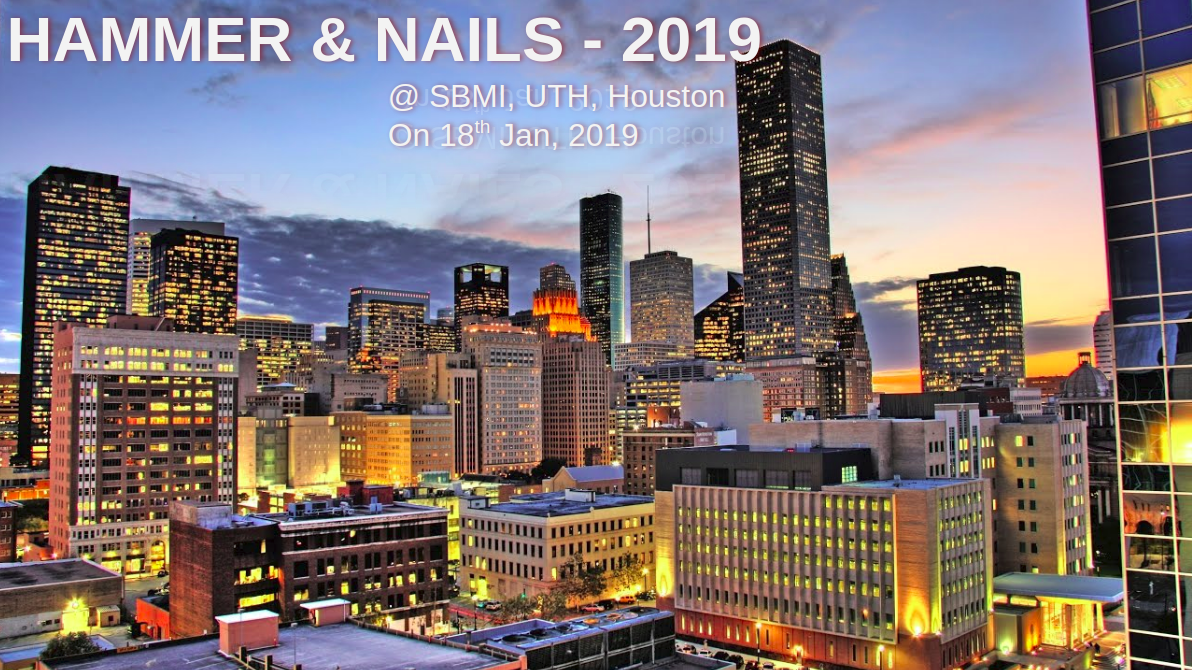
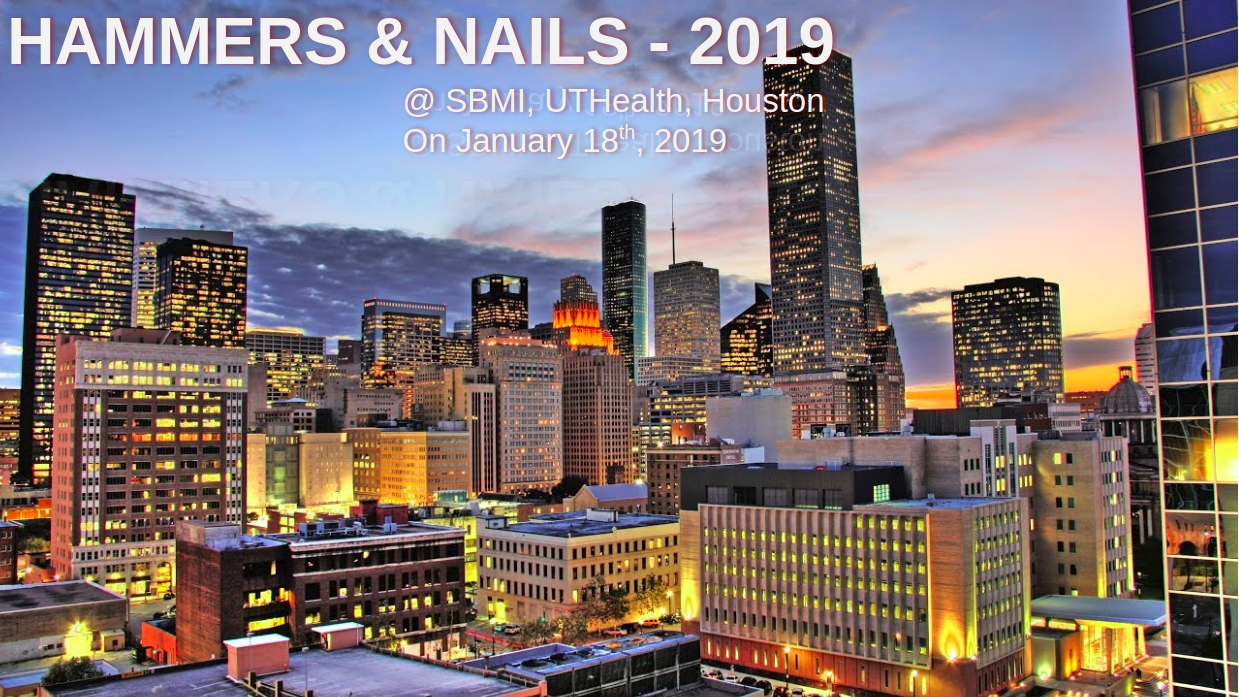
Changes suggested

diff --git a/workshop_2019.md b/workshop_2019.md
@@ -32,11 +32,11 @@ aside: false
 * &nbsp; <small>9:30 a.m.<span style="color:red">&nbsp; &nbsp; Breakfast/Refreshment</span></small>
 * <small>10:00 a.m.<span style="color:maroon">&nbsp; &nbsp; Opening Remarks</span></small> 
 
-  <small>&nbsp; &nbsp; &nbsp; &nbsp; &nbsp; &nbsp; &nbsp; &nbsp; &nbsp; &nbsp; &nbsp; &nbsp; &nbsp; &nbsp; &nbsp; &nbsp; &nbsp; &nbsp; &nbsp; &nbsp; - [**Dr.Jiajie Zhang**][JZ]*, Dean, SBMI, UTHealth*</small>
+  <small>&nbsp; &nbsp; &nbsp; &nbsp; &nbsp; &nbsp; &nbsp; &nbsp; &nbsp; &nbsp; &nbsp; &nbsp; &nbsp; &nbsp; &nbsp; &nbsp; &nbsp; &nbsp; &nbsp; &nbsp; - [**Dr. Jiajie Zhang**][JZ]*, Dean, SBMI, UTHealth*</small>
 * <small>10:15 a.m.<span style="color:maroon">&nbsp; &nbsp; CHSP Challeneges</span></small>  
 
-  <small>&nbsp; &nbsp; &nbsp; &nbsp; &nbsp; &nbsp; &nbsp; &nbsp; &nbsp; &nbsp; &nbsp; &nbsp; &nbsp; &nbsp; &nbsp; &nbsp; &nbsp; &nbsp; &nbsp; &nbsp; - [**Dr.Xiaoqian JIang**][XJ]*, SBMI, UTHealth*</small>
-* <small>10:25 a.m.<span style="color:maroon">&nbsp; &nbsp; Biomedical Challenege: Driver Disease Mutstaions and Drug Combinations</span></small> 
+  <small>&nbsp; &nbsp; &nbsp; &nbsp; &nbsp; &nbsp; &nbsp; &nbsp; &nbsp; &nbsp; &nbsp; &nbsp; &nbsp; &nbsp; &nbsp; &nbsp; &nbsp; &nbsp; &nbsp; &nbsp; - [**Dr. Xiaoqian JIang**][XJ]*, SBMI, UTHealth*</small>
+* <small>10:25 a.m.<span style="color:maroon">&nbsp; &nbsp; Biomedical Challenges: Driver Disease Mutaions and Drug Combinations</span></small> 
 
   <small>&nbsp; &nbsp; &nbsp; &nbsp; &nbsp; &nbsp; &nbsp; &nbsp; &nbsp; &nbsp; &nbsp; &nbsp; &nbsp; &nbsp; &nbsp; &nbsp; &nbsp; &nbsp; &nbsp; &nbsp; - [**Drs. Song(Stephen) Yi**][SY]*, UT Austin*; [**Dr.Nidhi Sahni**][NS]*, UT MDACC*</small>
 * <small>10:35 a.m.<span style="color:maroon">&nbsp; &nbsp; Data sharing or Model Sharing?</span></small> 
@@ -44,15 +44,15 @@ aside: false
   <small>&nbsp; &nbsp; &nbsp; &nbsp; &nbsp; &nbsp; &nbsp; &nbsp; &nbsp; &nbsp; &nbsp; &nbsp; &nbsp; &nbsp; &nbsp; &nbsp; &nbsp; &nbsp; &nbsp; &nbsp; - [**Dr. Degui Zhi**][DZ]*, SBMI, UTHealth*</small>
 * <small>10:45 a.m.<span style="color:maroon">&nbsp; &nbsp; A Framework for Similarity-based Predictions</span></small> 
 
-  <small>&nbsp; &nbsp; &nbsp; &nbsp; &nbsp; &nbsp; &nbsp; &nbsp; &nbsp; &nbsp; &nbsp; &nbsp; &nbsp; &nbsp; &nbsp; &nbsp; &nbsp; &nbsp; &nbsp; &nbsp; - [**Dr.Assaf Gottlieb**][AG]*, SBMI, UTHealth*</small>
+  <small>&nbsp; &nbsp; &nbsp; &nbsp; &nbsp; &nbsp; &nbsp; &nbsp; &nbsp; &nbsp; &nbsp; &nbsp; &nbsp; &nbsp; &nbsp; &nbsp; &nbsp; &nbsp; &nbsp; &nbsp; - [**Dr. Assaf Gottlieb**][AG]*, SBMI, UTHealth*</small>
 * <small>10:55 a.m.<span style="color:maroon">&nbsp; &nbsp; Research Overview: Network-Based & Baseyian Approaches for Biomedical Data Analysis</span></small> 
 
-  <small>&nbsp; &nbsp; &nbsp; &nbsp; &nbsp; &nbsp; &nbsp; &nbsp; &nbsp; &nbsp; &nbsp; &nbsp; &nbsp; &nbsp; &nbsp; &nbsp; &nbsp; &nbsp; &nbsp; &nbsp; - [**Dr. Byung-jun Yoon**][BJ]*, Texas A&M University*</small>
+  <small>&nbsp; &nbsp; &nbsp; &nbsp; &nbsp; &nbsp; &nbsp; &nbsp; &nbsp; &nbsp; &nbsp; &nbsp; &nbsp; &nbsp; &nbsp; &nbsp; &nbsp; &nbsp; &nbsp; &nbsp; - [**Dr. Byung-Jun Yoon**][BJ]*, Texas A&M University*</small>
 * <small>11:05 a.m.<span style="color:red">&nbsp; &nbsp; Coffee Break</span></small>
 * <small>11:20 a.m.<span style="color:maroon">&nbsp; &nbsp; Depression Monitoring via Dynamic Vocal Biomarkers</span></small> 
 
   <small>&nbsp; &nbsp; &nbsp; &nbsp; &nbsp; &nbsp; &nbsp; &nbsp; &nbsp; &nbsp; &nbsp; &nbsp; &nbsp; &nbsp; &nbsp; &nbsp; &nbsp; &nbsp; &nbsp; &nbsp; - [**Dr. Ying Lin**][YL]*, University of Houston*</small>
-* <small>11:30 a.m.<span style="color:maroon">&nbsp; &nbsp; Deep Leanring Reasearch at Information Innvoation Lab</span></small> 
+* <small>11:30 a.m.<span style="color:maroon">&nbsp; &nbsp; Deep Learning Research at Information Innvoation Lab</span></small> 
 
   <small>&nbsp; &nbsp; &nbsp; &nbsp; &nbsp; &nbsp; &nbsp; &nbsp; &nbsp; &nbsp; &nbsp; &nbsp; &nbsp; &nbsp; &nbsp; &nbsp; &nbsp; &nbsp; &nbsp; &nbsp; - [**Dr. Anxiao (Andrew) Jiang**][AJ]*, Texas A&M University*</small>
 * <small>11:40 a.m.<span style="color:maroon">&nbsp; &nbsp; Data Analysis at Texas A&M (DATA Lab)</span></small> 
@@ -68,7 +68,7 @@ aside: false
 * <small>12:20 p.m.<span style="color:red">&nbsp; &nbsp; Lunch Break</span></small>
 * &nbsp; <small>1:30 p.m.<span style="color:maroon">&nbsp; &nbsp; Practical Applications of Homomorphic Encryption</span></small> 
 
-  <small>&nbsp; &nbsp; &nbsp; &nbsp; &nbsp; &nbsp; &nbsp; &nbsp; &nbsp; &nbsp; &nbsp; &nbsp; &nbsp; &nbsp; &nbsp; &nbsp; &nbsp; &nbsp; &nbsp; &nbsp; - [**Dr. Miram Kim**][MK]*, SBMI, UTHealth*</small>
+  <small>&nbsp; &nbsp; &nbsp; &nbsp; &nbsp; &nbsp; &nbsp; &nbsp; &nbsp; &nbsp; &nbsp; &nbsp; &nbsp; &nbsp; &nbsp; &nbsp; &nbsp; &nbsp; &nbsp; &nbsp; - [**Dr. Miran Kim**][MK]*, SBMI, UTHealth*</small>
 * &nbsp; <small>1:40 p.m.<span style="color:maroon">&nbsp; &nbsp; An Information-Theoretic Approach to Data Clustering</span></small> 
 
   <small>&nbsp; &nbsp; &nbsp; &nbsp; &nbsp; &nbsp; &nbsp; &nbsp; &nbsp; &nbsp; &nbsp; &nbsp; &nbsp; &nbsp; &nbsp; &nbsp; &nbsp; &nbsp; &nbsp; &nbsp; - [**Dr. Tie Liu**][TL]*, Texas A&M University*</small>
@@ -80,7 +80,7 @@ aside: false
   <small>&nbsp; &nbsp; &nbsp; &nbsp; &nbsp; &nbsp; &nbsp; &nbsp; &nbsp; &nbsp; &nbsp; &nbsp; &nbsp; &nbsp; &nbsp; &nbsp; &nbsp; &nbsp; &nbsp; &nbsp; - [**Dr. Yejin Kim**][YK]*, SBMI, UTHealth*</small>
 * &nbsp; <small>2:10 p.m.<span style="color:maroon">&nbsp; &nbsp; Learning Complex Systems under Data Scarcity</span></small> 
 
-  <small>&nbsp; &nbsp; &nbsp; &nbsp; &nbsp; &nbsp; &nbsp; &nbsp; &nbsp; &nbsp; &nbsp; &nbsp; &nbsp; &nbsp; &nbsp; &nbsp; &nbsp; &nbsp; &nbsp; &nbsp; - [**Dr.Xiaoning Qian**][XQ]*, Texas A&M UNiversity*<small>
+  <small>&nbsp; &nbsp; &nbsp; &nbsp; &nbsp; &nbsp; &nbsp; &nbsp; &nbsp; &nbsp; &nbsp; &nbsp; &nbsp; &nbsp; &nbsp; &nbsp; &nbsp; &nbsp; &nbsp; &nbsp; - [**Dr. Xiaoning Qian**][XQ]*, Texas A&M University*<small>
 * &nbsp; <small>2:20 p.m.<span style="color:red">&nbsp; &nbsp; Coffee Break</span></small>
 * &nbsp; <small>2:35 p.m.<span style="color:maroon">&nbsp; &nbsp; Linear Optimization and Ranking Algorithms</span></small> 
 

diff --git a/index.md b/index.md
@@ -1,14 +1,14 @@
 ---
-title: About HAMMER and NAILS
+title: About Hammers and Nails
 feature_text: |
   # THE RISING OF BIOMEDICAL INFORMATICS
-  ### HAMMER AND NAILS - WORKSHOP
+  ### HAMMERS AND NAILS - WORKSHOP
 feature_image: "/assets/AI-Med.jpg"
 asideimage: true
 excerpt: "The Workshop on The Rising of Biomedical Information: Hammers and Nails brings together experts in biomedicine and AI for research collaboration."
 ---
 
-The workshop series aim at bridging real world biomedical challenges with state-of-the-art informatics solutions to constantly integrating the two worlds (medicine & computer science).
+The workshop series aim at bridging real world biomedical challenges with state-of-the-art informatics solutions to constantly integrate the two worlds (medicine & computer science).
 
 <!-- {% include figure.html image="/assets/Houston-event-2019.png" alt="Workshop-2019" %} -->
 
@@ -17,7 +17,7 @@ The workshop series aim at bridging real world biomedical challenges with state-
 
 <span style="color:maroon">Date : </span> **Friday, January 18, 2019**  
 
-<span style="color:maroon">Venue : </span> 7000 Fannin St., School of Biomedical Informatics (SBMI), The University of Texas Health Science Center at Hosuton, Houston, Tx 77030
+<span style="color:maroon">Venue : </span> 7000 Fannin St., School of Biomedical Informatics (SBMI), The University of Texas Health Science Center at Hosuton, Houston, TX 77030
 
 
 **Map to venue**

diff --git a/news.md b/news.md
@@ -1,5 +1,5 @@
 ---
-title: NEWS and ARTICLES
+title: News and Articles
 feature_text: |
 feature_image: "/assets/AI-news.jpg"
 excerpt: "News"
